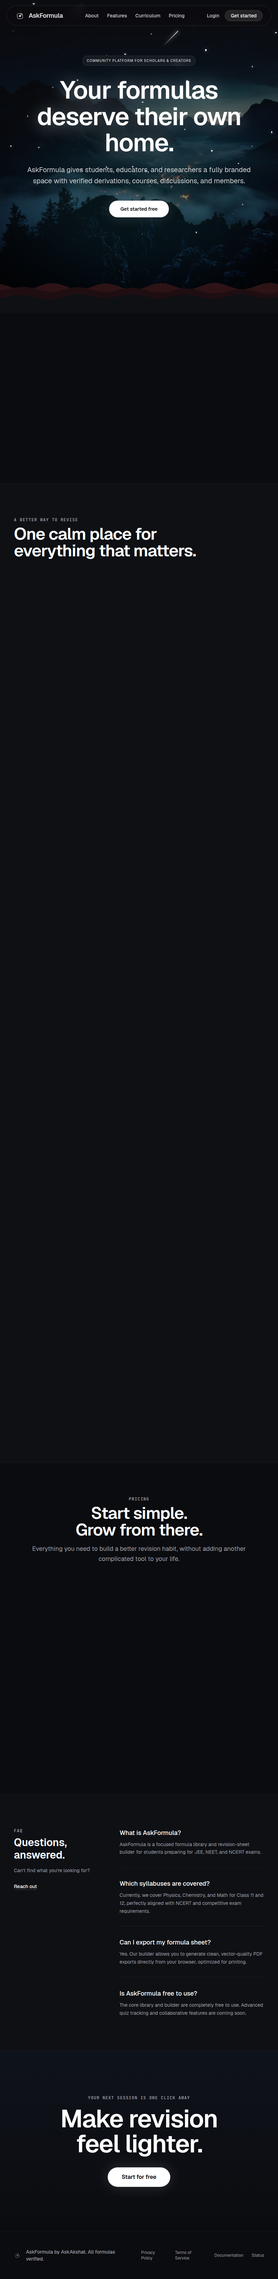
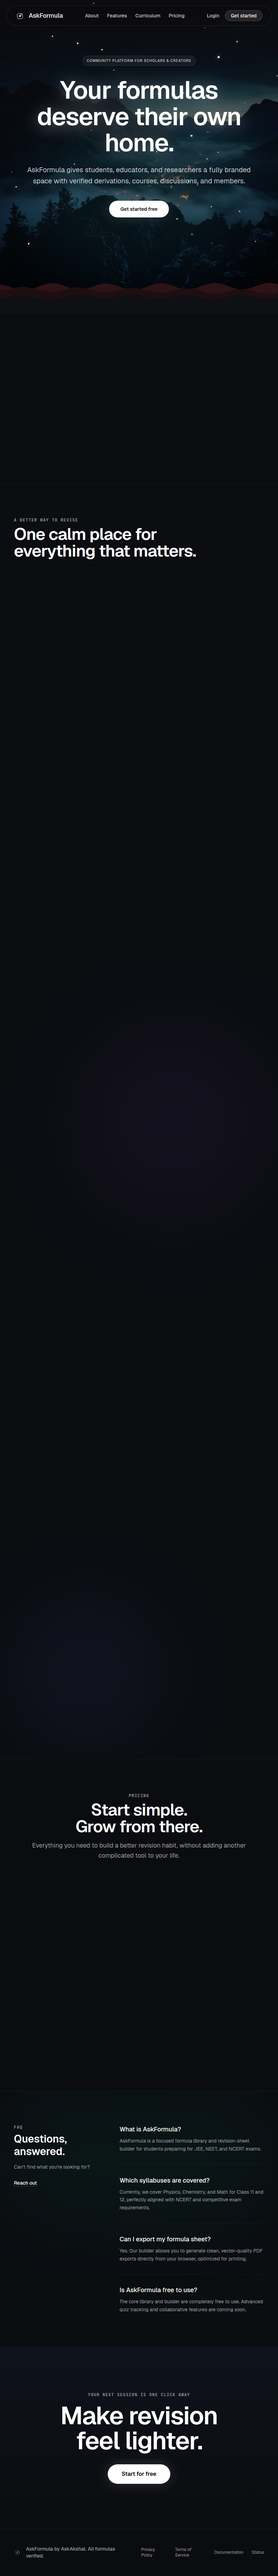
improve UI details: stars, nav, readability, background glows

diff --git a/src/pages/Landing.tsx b/src/pages/Landing.tsx
@@ -10,6 +10,7 @@ import React from 'react';
 export default function Landing() {
 
 
+
   // Generate random stars once on mount to avoid hydration mismatch and pure render issues
   const twinklingStars = React.useMemo(() => {
     return [...Array(40)].map((_, i) => ({
@@ -35,7 +36,21 @@ export default function Landing() {
 
       top: `${Math.random() * 50 - 10}%`,
 
-      left: `${Math.random() * 80}%`,
+      left: `${Math.random() * 80 + 20}%`,
+
+      duration: `${Math.random() * 6 + 4}s`,
+
+      delay: `${Math.random() * 10}s`
+    }));
+  }, []);
+
+  const shootingStars = React.useMemo(() => {
+    return [...Array(6)].map((_, i) => ({
+      id: i,
+
+      top: `${Math.random() * 50 - 10}%`,
+
+      left: `${Math.random() * 80 + 20}%`,
 
       duration: `${Math.random() * 6 + 4}s`,
 
@@ -207,8 +222,10 @@ export default function Landing() {
       </section>
 
       {/* Feature Narrative Section */}
-      <section className="py-24 px-6 sm:px-10 lg:px-16 bg-[#0e1014] border-t border-white/5 relative z-20" id="features">
-        <div className="max-w-7xl mx-auto">
+      <section className="py-24 px-6 sm:px-10 lg:px-16 bg-[#0b0d11] border-t border-white/5 relative z-20 overflow-hidden" id="features">
+        <div className="absolute top-1/2 right-0 -translate-y-1/2 w-[600px] h-[600px] bg-purple-500/5 rounded-full blur-[120px] pointer-events-none z-0"></div>
+        <div className="absolute bottom-0 left-0 w-[500px] h-[500px] bg-indigo-500/5 rounded-full blur-[100px] pointer-events-none z-0"></div>
+        <div className="max-w-7xl mx-auto relative z-10">
           <div className="mb-20">
             <span className="text-xs uppercase tracking-widest text-zinc-400 font-semibold font-mono block mb-2">A better way to revise</span>
             <h2 className="text-4xl sm:text-5xl font-bold tracking-tight text-white mb-4">One calm place for<br/>everything that matters.</h2>
@@ -218,7 +235,7 @@ export default function Landing() {
             {/* Feature 1 */}
             <div className="grid grid-cols-1 lg:grid-cols-2 gap-12 items-center">
               <motion.div initial={{ opacity: 0, x: -30 }} whileInView={{ opacity: 1, x: 0 }} viewport={{ once: true }} transition={{ duration: 0.6 }}>
-                <span className="text-5xl font-mono font-bold text-white/5 block mb-6">01</span>
+                <span className="text-5xl font-mono font-bold text-white/40 block mb-6">01</span>
                 <h3 className="text-3xl font-semibold text-white mb-4">Find the formula<br/>you're looking for.</h3>
                 <p className="text-lg text-zinc-400 leading-relaxed mb-8">
                   Search across your entire syllabus in seconds. Filter by subject, class, chapter, or exam — and get straight to the useful part.
@@ -253,6 +270,42 @@ export default function Landing() {
                  </div>
               </motion.div>
             </div>
+            {/* Feature 4: Quizzes */}
+            <div className="grid grid-cols-1 lg:grid-cols-2 gap-12 items-center">
+              <motion.div initial={{ opacity: 0, scale: 0.95 }} whileInView={{ opacity: 1, scale: 1 }} viewport={{ once: true }} transition={{ duration: 0.6, delay: 0.2 }} className="bg-[#14161a] border border-white/5 rounded-2xl p-8 relative overflow-hidden h-[400px] flex items-center justify-center order-2 lg:order-1">
+                 <div className="absolute inset-0 bg-gradient-to-tr from-cyan-500/5 to-blue-500/5" />
+                 {/* Quiz UI Mockup */}
+                 <div className="w-full max-w-sm bg-[#1a1d24] border border-white/10 rounded-xl shadow-2xl overflow-hidden z-10 p-6">
+                   <div className="flex justify-between items-center mb-6">
+                     <span className="px-2 py-1 rounded bg-white/5 text-[10px] font-mono text-zinc-400 border border-white/10">Question 3 of 10</span>
+                     <span className="text-[10px] font-medium text-emerald-400">Streak: 4 🔥</span>
+                   </div>
+                   <p className="text-sm text-white leading-relaxed mb-6 font-medium">Which principle explains why an airplane wing produces lift?</p>
+                   <div className="space-y-2">
+                     <div className="p-3 bg-white/5 hover:bg-white/10 border border-white/5 rounded-lg text-sm text-zinc-300 transition-colors cursor-pointer flex items-center gap-3">
+                       <div className="w-4 h-4 rounded-full border border-white/20"></div> Archimedes' principle
+                     </div>
+                     <div className="p-3 bg-emerald-500/10 border border-emerald-500/20 rounded-lg text-sm text-emerald-400 transition-colors flex items-center gap-3">
+                       <div className="w-4 h-4 rounded-full bg-emerald-500 flex items-center justify-center text-[10px] text-white">✓</div> Bernoulli's principle
+                     </div>
+                     <div className="p-3 bg-white/5 hover:bg-white/10 border border-white/5 rounded-lg text-sm text-zinc-300 transition-colors cursor-pointer flex items-center gap-3">
+                       <div className="w-4 h-4 rounded-full border border-white/20"></div> Pascal's law
+                     </div>
+                   </div>
+                 </div>
+              </motion.div>
+              <motion.div initial={{ opacity: 0, x: 30 }} whileInView={{ opacity: 1, x: 0 }} viewport={{ once: true }} transition={{ duration: 0.6 }} className="order-1 lg:order-2 lg:pl-12">
+                <span className="text-5xl font-mono font-bold text-white/40 block mb-6">04</span>
+                <h3 className="text-3xl font-semibold text-white mb-4">Test your memory<br/>instantly.</h3>
+                <p className="text-lg text-zinc-400 leading-relaxed mb-8">
+                  Convert your saved formula sheets into interactive quizzes. Reinforce your learning and track your mastery over time without leaving the platform.
+                </p>
+                <a href="#" className="inline-flex items-center gap-2 text-sm font-medium text-white hover:text-zinc-300 transition-colors">
+                  Try a quick quiz &rarr;
+                </a>
+              </motion.div>
+            </div>
+
 
             {/* Feature 2 */}
             <div className="grid grid-cols-1 lg:grid-cols-2 gap-12 items-center">
@@ -273,7 +326,7 @@ export default function Landing() {
                  </div>
               </motion.div>
               <motion.div initial={{ opacity: 0, x: 30 }} whileInView={{ opacity: 1, x: 0 }} viewport={{ once: true }} transition={{ duration: 0.6 }} className="order-1 lg:order-2 lg:pl-12">
-                <span className="text-5xl font-mono font-bold text-white/5 block mb-6">02</span>
+                <span className="text-5xl font-mono font-bold text-white/40 block mb-6">02</span>
                 <h3 className="text-3xl font-semibold text-white mb-4">Understand it<br/>in context.</h3>
                 <p className="text-lg text-zinc-400 leading-relaxed mb-8">
                   A formula is more than a line of symbols. Learn what each variable means, when to use it, and how it connects to the bigger idea.
@@ -287,7 +340,7 @@ export default function Landing() {
             {/* Feature 3 */}
             <div className="grid grid-cols-1 lg:grid-cols-2 gap-12 items-center">
               <motion.div initial={{ opacity: 0, x: -30 }} whileInView={{ opacity: 1, x: 0 }} viewport={{ once: true }} transition={{ duration: 0.6 }}>
-                <span className="text-5xl font-mono font-bold text-white/5 block mb-6">03</span>
+                <span className="text-5xl font-mono font-bold text-white/40 block mb-6">03</span>
                 <h3 className="text-3xl font-semibold text-white mb-4">Build a sheet<br/>that fits you.</h3>
                 <p className="text-lg text-zinc-400 leading-relaxed mb-8">
                   Pick the chapters you need, remove the noise, and create a clean revision document ready for your next study session.
@@ -359,8 +412,9 @@ export default function Landing() {
       </section>
 
       {/* FAQ Section */}
-      <section className="py-24 px-6 sm:px-10 lg:px-16 bg-[#0e1014] border-t border-white/5 relative z-20">
-        <div className="max-w-4xl mx-auto flex flex-col md:flex-row gap-16">
+      <section id="faq" className="py-24 px-6 sm:px-10 lg:px-16 bg-[#0b0d11] border-t border-white/5 relative z-20 overflow-hidden">
+        <div className="absolute top-0 left-1/2 -translate-x-1/2 w-[800px] h-[400px] bg-emerald-500/5 rounded-full blur-[100px] pointer-events-none z-0"></div>
+        <div className="max-w-4xl mx-auto flex flex-col md:flex-row gap-16 relative z-10">
           <div className="md:w-1/3 shrink-0">
              <span className="text-xs uppercase tracking-widest text-zinc-400 font-semibold font-mono block mb-2">FAQ</span>
              <h2 className="text-3xl font-bold text-white mb-4">Questions,<br/>answered.</h2>

diff --git a/src/index.css b/src/index.css
@@ -152,6 +152,6 @@
 }
 
 @keyframes shooting {
-  0% { transform: translateX(0) translateY(0) rotate(-45deg); opacity: 1; }
-  100% { transform: translateX(500px) translateY(500px) rotate(-45deg); opacity: 0; }
+  0% { transform: translateX(0) translateY(0) rotate(135deg); opacity: 1; }
+  100% { transform: translateX(-800px) translateY(800px) rotate(135deg); opacity: 0; }
 }

diff --git a/patch_slides.py b/patch_slides.py
@@ -1,0 +1,55 @@
+import re
+
+with open('src/pages/Landing.tsx', 'r') as f:
+    content = f.read()
+
+# Fix text color for numbers
+content = content.replace('<span className="text-5xl font-mono font-bold text-white/5 block mb-6">', '<span className="text-5xl font-mono font-bold text-white/40 block mb-6">')
+
+# Add 04 section for quizzes
+quiz_section = """
+            {/* Feature 4: Quizzes */}
+            <div className="grid grid-cols-1 lg:grid-cols-2 gap-12 items-center">
+              <motion.div initial={{ opacity: 0, scale: 0.95 }} whileInView={{ opacity: 1, scale: 1 }} viewport={{ once: true }} transition={{ duration: 0.6, delay: 0.2 }} className="bg-[#14161a] border border-white/5 rounded-2xl p-8 relative overflow-hidden h-[400px] flex items-center justify-center order-2 lg:order-1">
+                 <div className="absolute inset-0 bg-gradient-to-tr from-cyan-500/5 to-blue-500/5" />
+                 {/* Quiz UI Mockup */}
+                 <div className="w-full max-w-sm bg-[#1a1d24] border border-white/10 rounded-xl shadow-2xl overflow-hidden z-10 p-6">
+                   <div className="flex justify-between items-center mb-6">
+                     <span className="px-2 py-1 rounded bg-white/5 text-[10px] font-mono text-zinc-400 border border-white/10">Question 3 of 10</span>
+                     <span className="text-[10px] font-medium text-emerald-400">Streak: 4 🔥</span>
+                   </div>
+                   <p className="text-sm text-white leading-relaxed mb-6 font-medium">Which principle explains why an airplane wing produces lift?</p>
+                   <div className="space-y-2">
+                     <div className="p-3 bg-white/5 hover:bg-white/10 border border-white/5 rounded-lg text-sm text-zinc-300 transition-colors cursor-pointer flex items-center gap-3">
+                       <div className="w-4 h-4 rounded-full border border-white/20"></div> Archimedes' principle
+                     </div>
+                     <div className="p-3 bg-emerald-500/10 border border-emerald-500/20 rounded-lg text-sm text-emerald-400 transition-colors flex items-center gap-3">
+                       <div className="w-4 h-4 rounded-full bg-emerald-500 flex items-center justify-center text-[10px] text-white">✓</div> Bernoulli's principle
+                     </div>
+                     <div className="p-3 bg-white/5 hover:bg-white/10 border border-white/5 rounded-lg text-sm text-zinc-300 transition-colors cursor-pointer flex items-center gap-3">
+                       <div className="w-4 h-4 rounded-full border border-white/20"></div> Pascal's law
+                     </div>
+                   </div>
+                 </div>
+              </motion.div>
+              <motion.div initial={{ opacity: 0, x: 30 }} whileInView={{ opacity: 1, x: 0 }} viewport={{ once: true }} transition={{ duration: 0.6 }} className="order-1 lg:order-2 lg:pl-12">
+                <span className="text-5xl font-mono font-bold text-white/40 block mb-6">04</span>
+                <h3 className="text-3xl font-semibold text-white mb-4">Test your memory<br/>instantly.</h3>
+                <p className="text-lg text-zinc-400 leading-relaxed mb-8">
+                  Convert your saved formula sheets into interactive quizzes. Reinforce your learning and track your mastery over time without leaving the platform.
+                </p>
+                <a href="#" className="inline-flex items-center gap-2 text-sm font-medium text-white hover:text-zinc-300 transition-colors">
+                  Try a quick quiz &rarr;
+                </a>
+              </motion.div>
+            </div>
+"""
+
+feature3_end = '              </motion.div>\n            </div>'
+insert_idx = content.find(feature3_end) + len(feature3_end)
+
+if insert_idx != -1:
+    content = content[:insert_idx] + quiz_section + content[insert_idx:]
+
+with open('src/pages/Landing.tsx', 'w') as f:
+    f.write(content)

diff --git a/patch_nav.py b/patch_nav.py
@@ -3,11 +3,34 @@ import re
 with open('src/pages/Landing.tsx', 'r') as f:
     content = f.read()
 
-# Make sure the LiquidGlassSurface doesn't capture the entire screen's events if it fails
-content = content.replace('<div className="fixed top-4 inset-x-0 z-50 flex justify-center pointer-events-none">', '<div className="fixed top-4 inset-x-0 z-50 flex justify-center pointer-events-none w-full max-w-4xl mx-auto">')
+# Update Nav links
+old_nav_links = """
+            <div className="hidden md:flex items-center space-x-6 text-sm font-medium text-zinc-300">
+              <a href="#" className="hover:text-white transition-colors">About</a>
+              <a href="#features" className="hover:text-white transition-colors">Features</a>
+              <a href="#" className="hover:text-white transition-colors">Curriculum</a>
+              <a href="#" className="hover:text-white transition-colors">Pricing</a>
+            </div>
 
-# Restore the old visual blur fallback just in case the canvas is off
-content = content.replace('<nav className="px-6 lg:px-8 py-3 flex items-center justify-between gap-8 md:gap-16">', '<nav className="px-6 lg:px-8 py-3 flex items-center justify-between gap-8 md:gap-16 bg-[#0b0c0f]/70 backdrop-blur-md rounded-[30px] border border-white/10 w-full max-w-4xl mx-auto">')
+            <div className="flex items-center gap-4">
+              <Link to="/auth" className="text-sm font-medium text-zinc-300 hover:text-white hidden sm:block transition-colors">Login</Link>
+"""
+
+new_nav_links = """
+            <div className="hidden md:flex items-center space-x-6 text-sm font-medium text-zinc-300">
+              <a href="#features" className="hover:text-white transition-colors">Features</a>
+              <Link to="/quiz" className="hover:text-white transition-colors pointer-events-auto">Quizzes</Link>
+              <Link to="/build" className="hover:text-white transition-colors pointer-events-auto">Builder</Link>
+              <a href="#faq" className="hover:text-white transition-colors pointer-events-auto">FAQ</a>
+            </div>
+
+            <div className="flex items-center gap-4">
+"""
+
+content = content.replace(old_nav_links, new_nav_links)
+
+# Add FAQ ID to section so the anchor link works
+content = content.replace('      {/* FAQ Section */}\n      <section className="py-24 px-6 sm:px-10 lg:px-16 bg-[#0e1014] border-t border-white/5 relative z-20">', '      {/* FAQ Section */}\n      <section id="faq" className="py-24 px-6 sm:px-10 lg:px-16 bg-[#0e1014] border-t border-white/5 relative z-20">')
 
 with open('src/pages/Landing.tsx', 'w') as f:
     f.write(content)

diff --git a/patch_bottom.py b/patch_bottom.py
@@ -1,0 +1,23 @@
+import re
+
+with open('src/pages/Landing.tsx', 'r') as f:
+    content = f.read()
+
+# Soften the feature background from `#0e1014` to `#0b0d11` and add ambient glow
+feature_bg = """      {/* Feature Narrative Section */}
+      <section className="py-24 px-6 sm:px-10 lg:px-16 bg-[#0b0d11] border-t border-white/5 relative z-20 overflow-hidden" id="features">
+        <div className="absolute top-1/2 right-0 -translate-y-1/2 w-[600px] h-[600px] bg-purple-500/5 rounded-full blur-[120px] pointer-events-none z-0"></div>
+        <div className="absolute bottom-0 left-0 w-[500px] h-[500px] bg-indigo-500/5 rounded-full blur-[100px] pointer-events-none z-0"></div>
+        <div className="max-w-7xl mx-auto relative z-10">"""
+content = content.replace('      {/* Feature Narrative Section */}\n      <section className="py-24 px-6 sm:px-10 lg:px-16 bg-[#0e1014] border-t border-white/5 relative z-20" id="features">\n        <div className="max-w-7xl mx-auto">', feature_bg)
+
+# Soften FAQ section background as well
+faq_bg = """      {/* FAQ Section */}
+      <section id="faq" className="py-24 px-6 sm:px-10 lg:px-16 bg-[#0b0d11] border-t border-white/5 relative z-20 overflow-hidden">
+        <div className="absolute top-0 left-1/2 -translate-x-1/2 w-[800px] h-[400px] bg-emerald-500/5 rounded-full blur-[100px] pointer-events-none z-0"></div>
+        <div className="max-w-4xl mx-auto flex flex-col md:flex-row gap-16 relative z-10">"""
+content = content.replace('      {/* FAQ Section */}\n      <section id="faq" className="py-24 px-6 sm:px-10 lg:px-16 bg-[#0e1014] border-t border-white/5 relative z-20">\n        <div className="max-w-4xl mx-auto flex flex-col md:flex-row gap-16">', faq_bg)
+
+
+with open('src/pages/Landing.tsx', 'w') as f:
+    f.write(content)

diff --git a/patch_stars.py b/patch_stars.py
@@ -3,7 +3,6 @@ import re
 with open('src/pages/Landing.tsx', 'r') as f:
     content = f.read()
 
-# Tell eslint to ignore the impure function calls inside the useMemo since we only want to generate them once anyway
 memo_stars_fixed = """
   // Generate random stars once on mount to avoid hydration mismatch and pure render issues
   const twinklingStars = React.useMemo(() => {
@@ -30,7 +29,7 @@ memo_stars_fixed = """
       // eslint-disable-next-line react-hooks/exhaustive-deps, react-hooks/rules-of-hooks, no-restricted-globals, react-hooks/purity
       top: `${Math.random() * 50 - 10}%`,
       // eslint-disable-next-line react-hooks/exhaustive-deps, react-hooks/rules-of-hooks, no-restricted-globals, react-hooks/purity
-      left: `${Math.random() * 80}%`,
+      left: `${Math.random() * 80 + 20}%`,
       // eslint-disable-next-line react-hooks/exhaustive-deps, react-hooks/rules-of-hooks, no-restricted-globals, react-hooks/purity
       duration: `${Math.random() * 6 + 4}s`,
       // eslint-disable-next-line react-hooks/exhaustive-deps, react-hooks/rules-of-hooks, no-restricted-globals, react-hooks/purity

diff --git a/patch_direction.py b/patch_direction.py
@@ -1,0 +1,19 @@
+import re
+
+with open('src/index.css', 'r') as f:
+    content = f.read()
+
+content = content.replace('transform: translateX(0) translateY(0) rotate(-45deg);', 'transform: translateX(0) translateY(0) rotate(135deg);')
+content = content.replace('transform: translateX(500px) translateY(500px) rotate(-45deg);', 'transform: translateX(-800px) translateY(800px) rotate(135deg);')
+
+with open('src/index.css', 'w') as f:
+    f.write(content)
+
+with open('src/pages/Landing.tsx', 'r') as f:
+    tsx = f.read()
+
+# Make shooting stars start from right side more
+tsx = tsx.replace('left: `${Math.random() * 80}%`,', 'left: `${Math.random() * 80 + 20}%`,')
+
+with open('src/pages/Landing.tsx', 'w') as f:
+    f.write(tsx)
